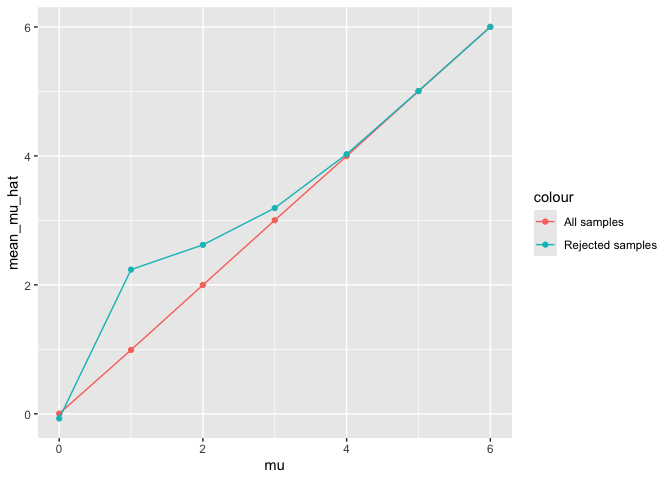
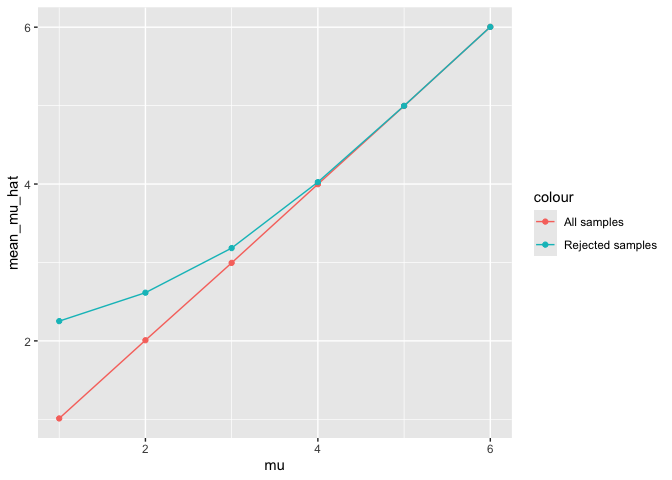
update

diff --git a/p8105_hw5_yz5248.md b/p8105_hw5_yz5248.md
@@ -56,16 +56,16 @@ bday_sim_results
     ## # A tibble: 49 × 2
     ##    bdays prob_repeat
     ##    <int>       <dbl>
-    ##  1     2      0.003 
-    ##  2     3      0.0087
-    ##  3     4      0.0172
-    ##  4     5      0.0286
-    ##  5     6      0.0399
-    ##  6     7      0.0544
-    ##  7     8      0.0757
-    ##  8     9      0.097 
-    ##  9    10      0.118 
-    ## 10    11      0.141 
+    ##  1     2      0.0023
+    ##  2     3      0.0096
+    ##  3     4      0.0178
+    ##  4     5      0.0266
+    ##  5     6      0.0391
+    ##  6     7      0.0557
+    ##  7     8      0.0739
+    ##  8     9      0.0959
+    ##  9    10      0.117 
+    ## 10    11      0.138 
     ## # ℹ 39 more rows
 
 The simulation plot demonstrates that as group size increases, the
@@ -95,8 +95,8 @@ one_sample_sim = function(mu, sigma = 5, n_subj = 30, n_sim = 5000, conf_level =
 ``` r
 sim_results_df =
   expand_grid(
-    mu = 0:6,
-    iter = 1:5
+    mu = 1:6,
+    iter = 1:6
   ) |> 
   mutate(
     results = map(mu, one_sample_sim)
@@ -111,16 +111,15 @@ sim_results_df =
 sim_results_df
 ```
 
-    ## # A tibble: 7 × 4
-    ##      mu  power mean_mu_hat mean_mu_hat_reject
-    ##   <int>  <dbl>       <dbl>              <dbl>
-    ## 1     0 0.0490     0.00357            -0.0713
-    ## 2     1 0.183      0.991               2.24  
-    ## 3     2 0.561      2.00                2.62  
-    ## 4     3 0.888      3.00                3.19  
-    ## 5     4 0.987      4.00                4.03  
-    ## 6     5 1.00       5.00                5.01  
-    ## 7     6 1          6.00                6.00
+    ## # A tibble: 6 × 4
+    ##      mu power mean_mu_hat mean_mu_hat_reject
+    ##   <int> <dbl>       <dbl>              <dbl>
+    ## 1     1 0.189        1.01               2.25
+    ## 2     2 0.567        2.01               2.61
+    ## 3     3 0.888        2.99               3.18
+    ## 4     4 0.988        4.00               4.02
+    ## 5     5 1.00         5.00               5.00
+    ## 6     6 1            6.00               6.00
 
 ## plot 1
 
@@ -135,9 +134,8 @@ p_power
 ![](p8105_hw5_yz5248_files/figure-gfm/unnamed-chunk-7-1.png)<!-- --> The
 plot shows a positive association between effect size and power:  
 As effect size increases, the power of the test also increases.  
-When effect size equals to 0 the power is very low (close to the
-significance level, around 0.05–0.1), meaning the test rarely rejects
-the null hypothesis when it is true.  
+When effect size equals to 0 the power is very low, meaning the test
+rarely rejects the null hypothesis when it is true.  
 As effect size increases to about 2, the power rises sharply (around
 0.5), indicating the test becomes more capable of detecting the
 effect.  
